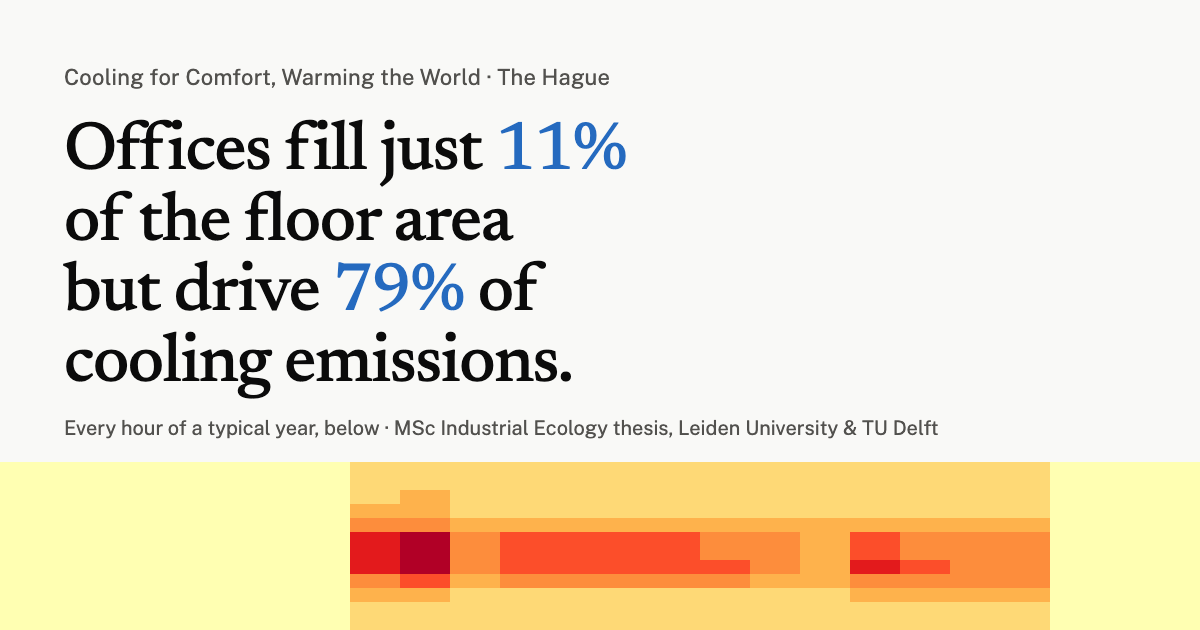
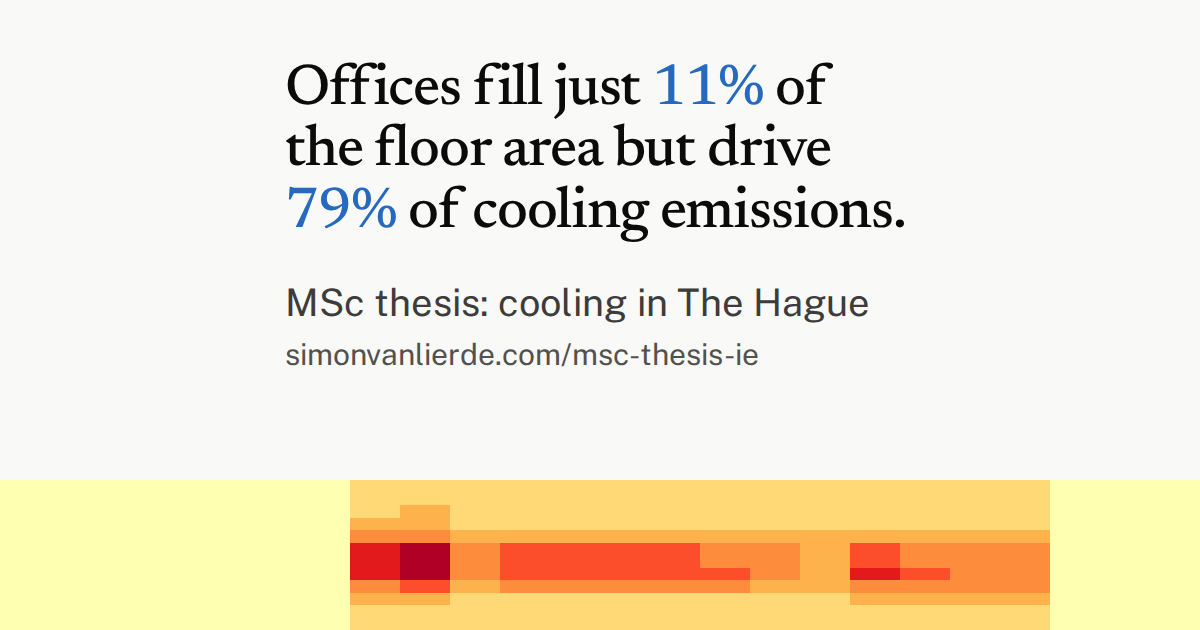
fix(dashboard): keep the social card's headline inside the centred crop (#74)
Some link previews crop the 1200x630 card to the centred 630 px square, which cut the left-aligned headline to "fill just 11% / oor area". The running head and source line were also about 10 px at preview size.

- Set the headline, a one-line description and the address in the centred 630 px column, all at 30 px or more.
- Drop the running head and the source line; the heatmap strip stays as the proof.
- Describe the headline and the strip in og:image:alt.

Changed region(s): [[0.0308, 0.0905, 0.7708, 0.6333], [0.0, 0.7238, 1.0, 0.9651], [0.0308, 0.6635, 0.8017, 0.6937]]

diff --git a/dashboard/index.html b/dashboard/index.html
@@ -59,7 +59,7 @@
     <meta property="og:image:height" content="630" />
     <meta
       property="og:image:alt"
-      content="A year of cooling demand in The Hague, drawn as a grid of months by hours."
+      content="Offices fill just 11% of the floor area but drive 79% of cooling emissions in The Hague, above a heatmap of a typical year of cooling demand by month and hour."
     />
     <meta name="twitter:card" content="summary_large_image" />
   </head>
